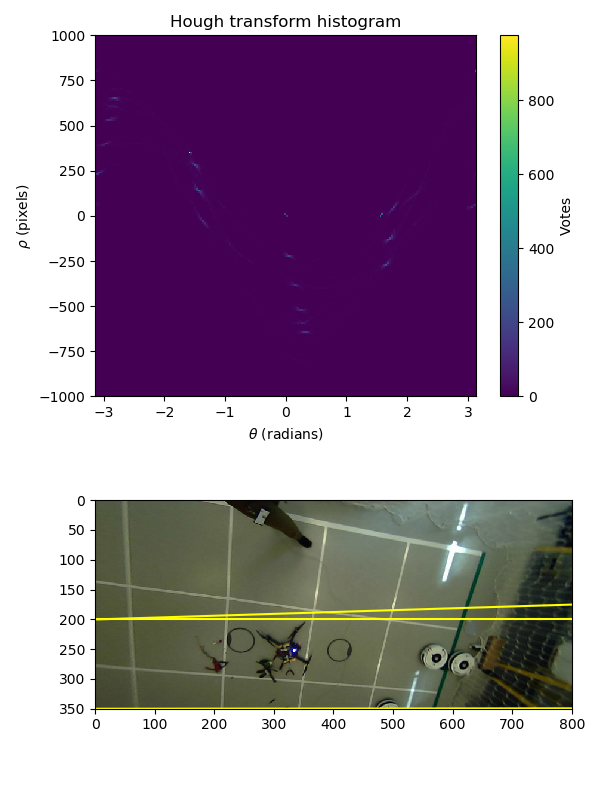
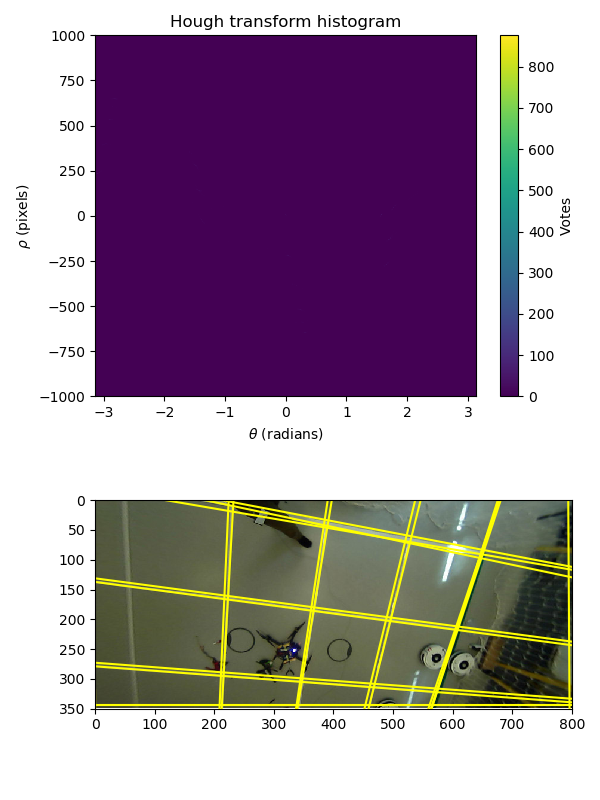
Fixed task2, all done

diff --git a/ex5/python/task2.py b/ex5/python/task2.py
@@ -17,12 +17,12 @@ u,v,theta  = extract_edges(Iu, Iv, Im, edge_threshold)
 #
 # Task 2a: Compute accumulator array H
 #
-bins      = 200 # Placeholder
-rho_max   = 1000 # Placeholder
-rho_min   = -1000 # Placeholder
-theta_min = -np.pi # Placeholder
-theta_max = np.pi # Placeholder
-H = np.zeros([bins,bins]) # Placeholder
+bins      = 1000
+rho_max   = 1000
+rho_min   = -1000
+theta_max = np.pi 
+theta_min = -np.pi 
+
 
 # Tip: Use histogram2d for task 2a
 rho = u*np.cos(theta) + v*np.sin(theta)
@@ -34,8 +34,8 @@ H = H.T # Make rows be rho and columns be theta (see documentation)
 #
 # Task 2b: Find local maxima
 #
-line_threshold = 15 # Placeholder
-window_size = 11 # Placeholder
+line_threshold = 15
+window_size = 10 
 peak_rows,peak_cols = extract_peaks(H, window_size, line_threshold)
 
 #
@@ -44,15 +44,14 @@ peak_rows,peak_cols = extract_peaks(H, window_size, line_threshold)
 #peak_theta = [0, 0.2, 0.5, 0.7] # Placeholder to demonstrate use of draw_line
 #peak_rho   = [10, 100, 300, 500] # Placeholder to demonstrate use of draw_line
 
-rho_step = peak_rows * (rho_max - rho_min) / bins
-theta_step = peak_cols * (theta_max - theta_min) / bins
-peak_rho = np.zeros(rho_step.shape[0])
-peak_theta = np.zeros(theta_step.shape[0])
-for rho in range(rho_step.shape[0]):
-    peak_rho[rho] = np.linalg.norm((rho_step[rho], theta_step[rho]))
-for theta in range(theta_step.shape[0]):
-    peak_theta[theta] = np.arctan2(rho_step[theta], theta_step[theta])
+rho_step = (rho_max - rho_min) / bins
+theta_step = (theta_max - theta_min) / bins
+peak_rho = np.zeros(len(peak_rows))
+peak_theta = np.zeros(len(peak_cols))
 
+for i in range(len(peak_rows)):
+    peak_rho[i] = rho_min + peak_rows[i] * rho_step
+    peak_theta[i] = theta_max + peak_cols[i] * theta_step
 
 
 plt.figure(figsize=[6,8])
